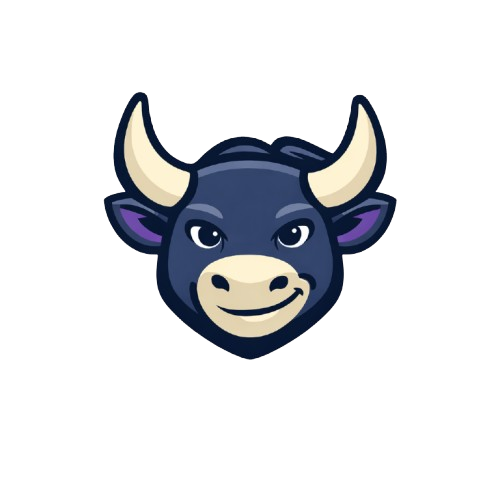
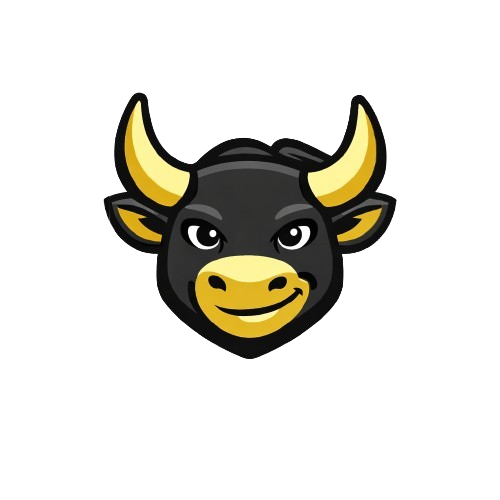
Phase 7: gold colour scheme, updated bull mascot, card fixes

Changed region(s): [[0.21, 0.18, 0.81, 0.72]]

diff --git a/portfolio-rank-next/src/app/page.tsx b/portfolio-rank-next/src/app/page.tsx
@@ -1,7 +1,7 @@
 import Link from "next/link";
 import * as SimpleIcons from "simple-icons";
 
-const ACCENT_PURPLE = "#7c3aed";
+const ACCENT_GOLD = "#f59e0b";
 
 const CAROUSEL_SLUGS = [
   "apple",
@@ -38,7 +38,7 @@ export default function Home() {
   return (
     <div
       className="min-h-screen text-white"
-      style={{ backgroundColor: "#0a0f1e" }}
+      style={{ backgroundColor: "#0a0a0a" }}
     >
       <style
         dangerouslySetInnerHTML={{
@@ -55,13 +55,13 @@ export default function Home() {
       />
 
       {/* Navbar */}
-      <nav className="sticky top-0 z-50 backdrop-blur-md bg-[#0a0f1e]/70 border-b border-white/10">
+      <nav className="sticky top-0 z-50 backdrop-blur-md bg-[#0a0a0a]/70 border-b border-white/10">
         <div className="mx-auto flex max-w-6xl items-center justify-between px-4 py-4">
           <Link href="/" className="flex items-center gap-2">
             <img src="/brand/bull-head.png" alt="PortfolioRank" className="h-16 w-auto" />
             <span className="font-bold text-lg">
               <span className="text-white">Portfolio</span>
-              <span className="text-purple-400">Rank</span>
+              <span className="text-yellow-400">Rank</span>
             </span>
           </Link>
           <a
@@ -72,9 +72,9 @@ export default function Home() {
               fontSize: "18px",
               fontWeight: 700,
               borderRadius: "9999px",
-              color: "white",
-              background: "#7c3aed",
-              boxShadow: "0 0 30px rgba(124,58,237,0.6)",
+              color: "#0a0a0a",
+              background: "#f59e0b",
+              boxShadow: "0 0 30px rgba(245,158,11,0.5)",
             }}
           >
             Analyse My Portfolio →
@@ -89,7 +89,7 @@ export default function Home() {
             <h1 className="text-4xl md:text-6xl font-black text-center leading-tight tracking-tight">
               <span className="text-white">How Strong Is Your</span>
               <br />
-              <span className="text-purple-400 whitespace-nowrap">
+              <span className="text-yellow-400 whitespace-nowrap">
                 Investment Portfolio?
               </span>
             </h1>
@@ -100,27 +100,27 @@ export default function Home() {
 
             {/* 3 step cards */}
             <div className="mt-12 grid gap-8 sm:grid-cols-3">
-              <div className="relative overflow-hidden rounded-2xl border border-purple-500/20 bg-white/[0.03] p-6 text-left">
-                <div className="absolute -top-px left-1/2 h-px w-3/4 -translate-x-1/2 bg-gradient-to-r from-transparent via-purple-500 to-transparent" />
-                <div className="pointer-events-none absolute left-0 top-0 h-full w-full bg-gradient-to-b from-purple-500/5 to-transparent" />
+              <div className="relative overflow-hidden rounded-2xl border border-yellow-500/20 bg-white/[0.03] p-6 text-left">
+                <div className="absolute -top-px left-1/2 h-px w-3/4 -translate-x-1/2 bg-gradient-to-r from-transparent via-yellow-500 to-transparent" />
+                <div className="pointer-events-none absolute left-0 top-0 h-full w-full bg-gradient-to-b from-yellow-500/5 to-transparent" />
                 <div className="text-2xl">📋</div>
                 <h3 className="mt-2 font-semibold text-white">Enter Portfolio</h3>
                 <p className="mt-1 text-sm text-slate-400">
                   Add your holdings and weights in seconds
                 </p>
               </div>
-              <div className="relative overflow-hidden rounded-2xl border border-purple-500/20 bg-white/[0.03] p-6 text-left">
-                <div className="absolute -top-px left-1/2 h-px w-3/4 -translate-x-1/2 bg-gradient-to-r from-transparent via-purple-500 to-transparent" />
-                <div className="pointer-events-none absolute left-0 top-0 h-full w-full bg-gradient-to-b from-purple-500/5 to-transparent" />
+              <div className="relative overflow-hidden rounded-2xl border border-yellow-500/20 bg-white/[0.03] p-6 text-left">
+                <div className="absolute -top-px left-1/2 h-px w-3/4 -translate-x-1/2 bg-gradient-to-r from-transparent via-yellow-500 to-transparent" />
+                <div className="pointer-events-none absolute left-0 top-0 h-full w-full bg-gradient-to-b from-yellow-500/5 to-transparent" />
                 <div className="text-2xl">⚡</div>
                 <h3 className="mt-2 font-semibold text-white">AI Analysis</h3>
                 <p className="mt-1 text-sm text-slate-400">
                   Our engine scores diversification, risk & more
                 </p>
               </div>
-              <div className="relative overflow-hidden rounded-2xl border border-purple-500/20 bg-white/[0.03] p-6 text-left">
-                <div className="absolute -top-px left-1/2 h-px w-3/4 -translate-x-1/2 bg-gradient-to-r from-transparent via-purple-500 to-transparent" />
-                <div className="pointer-events-none absolute left-0 top-0 h-full w-full bg-gradient-to-b from-purple-500/5 to-transparent" />
+              <div className="relative overflow-hidden rounded-2xl border border-yellow-500/20 bg-white/[0.03] p-6 text-left">
+                <div className="absolute -top-px left-1/2 h-px w-3/4 -translate-x-1/2 bg-gradient-to-r from-transparent via-yellow-500 to-transparent" />
+                <div className="pointer-events-none absolute left-0 top-0 h-full w-full bg-gradient-to-b from-yellow-500/5 to-transparent" />
                 <div className="text-2xl">📊</div>
                 <h3 className="mt-2 font-semibold text-white">Your Score</h3>
                 <p className="mt-1 text-sm text-slate-400">
@@ -138,9 +138,9 @@ export default function Home() {
                   fontSize: "18px",
                   fontWeight: 700,
                   borderRadius: "9999px",
-                  color: "white",
-                  background: "#7c3aed",
-                  boxShadow: "0 0 30px rgba(124,58,237,0.6)",
+                  color: "#0a0a0a",
+                  background: "#f59e0b",
+                  boxShadow: "0 0 30px rgba(245,158,11,0.5)",
                 }}
               >
                 Analyse My Portfolio →
@@ -212,9 +212,9 @@ export default function Home() {
 
         {/* Section 3 — Stat cards */}
         <section className="pt-8 pb-16 bg-transparent">
-          <div className="relative overflow-hidden rounded-2xl border border-purple-500/20 bg-white/[0.03] p-6">
-            <div className="absolute -top-px left-1/2 h-px w-3/4 -translate-x-1/2 bg-gradient-to-r from-transparent via-purple-500 to-transparent" />
-            <div className="pointer-events-none absolute left-0 top-0 h-full w-full bg-gradient-to-b from-purple-500/5 to-transparent" />
+          <div className="relative overflow-hidden rounded-2xl border border-yellow-500/20 bg-white/[0.03] p-6">
+            <div className="absolute -top-px left-1/2 h-px w-3/4 -translate-x-1/2 bg-gradient-to-r from-transparent via-yellow-500 to-transparent" />
+            <div className="pointer-events-none absolute left-0 top-0 h-full w-full bg-gradient-to-b from-yellow-500/5 to-transparent" />
             <h2 className="mb-8 text-center text-2xl font-semibold text-white">
               Most Portfolios Have Hidden Problems
             </h2>
@@ -222,7 +222,7 @@ export default function Home() {
               <div className="relative rounded-2xl border border-white/15 bg-white/[0.04] p-8 text-center">
                 <div
                   className="text-5xl font-black"
-                  style={{ color: ACCENT_PURPLE }}
+                  style={{ color: ACCENT_GOLD }}
                 >
                   72%
                 </div>
@@ -234,7 +234,7 @@ export default function Home() {
               <div className="relative rounded-2xl border border-white/15 bg-white/[0.04] p-8 text-center">
                 <div
                   className="text-5xl font-black"
-                  style={{ color: ACCENT_PURPLE }}
+                  style={{ color: ACCENT_GOLD }}
                 >
                   &lt;5
                 </div>
@@ -246,7 +246,7 @@ export default function Home() {
               <div className="relative rounded-2xl border border-white/15 bg-white/[0.04] p-8 text-center">
                 <div
                   className="text-5xl font-black"
-                  style={{ color: ACCENT_PURPLE }}
+                  style={{ color: ACCENT_GOLD }}
                 >
                   2.3×
                 </div>
@@ -260,22 +260,21 @@ export default function Home() {
         </section>
 
         {/* Section 4 — Average score */}
-        <section className="flex justify-center py-24 bg-white/[0.02]">
-          <div className="relative w-full max-w-lg overflow-hidden rounded-2xl border border-purple-500/20 bg-white/[0.03] p-6 text-center">
-            <div className="absolute -top-px left-1/2 h-px w-3/4 -translate-x-1/2 bg-gradient-to-r from-transparent via-purple-500 to-transparent" />
-            <div className="pointer-events-none absolute left-0 top-0 h-full w-full bg-gradient-to-b from-purple-500/5 to-transparent" />
+        <section className="flex justify-center py-24">
+          <div className="relative w-full max-w-lg overflow-hidden rounded-2xl border border-yellow-500/20 bg-[#111111] p-6 text-center">
+            <div className="absolute -top-px left-1/2 h-px w-3/4 -translate-x-1/2 bg-gradient-to-r from-transparent via-yellow-500 to-transparent" />
             <h2 className="text-xl font-semibold text-white">
               Average PortfolioRank Score
             </h2>
             <div
               className="mt-4 text-5xl font-bold"
-              style={{ color: ACCENT_PURPLE }}
+              style={{ color: ACCENT_GOLD }}
             >
               6.3 / 10
             </div>
             <span
               className="mt-2 inline-block rounded-full px-4 py-1 text-xs font-semibold"
-              style={{ backgroundColor: `${ACCENT_PURPLE}30`, color: ACCENT_PURPLE }}
+              style={{ backgroundColor: `${ACCENT_GOLD}30`, color: ACCENT_GOLD }}
             >
               ● MOST COMMON SCORE
             </span>
@@ -289,14 +288,14 @@ export default function Home() {
                 <path
                   d="M 0 60 Q 50 55 100 40 T 200 60"
                   fill="none"
-                  stroke="rgba(124, 58, 237, 0.5)"
+                  stroke="rgba(245, 158, 11, 0.5)"
                   strokeWidth="2"
                 />
                 <path
                   d="M 0 60 Q 50 55 100 40 T 200 60 L 200 80 L 0 80 Z"
-                  fill="rgba(124, 58, 237, 0.1)"
+                  fill="rgba(245, 158, 11, 0.1)"
                 />
-                <circle cx="95" cy="42" r="4" fill={ACCENT_PURPLE} />
+                <circle cx="95" cy="42" r="4" fill={ACCENT_GOLD} />
               </svg>
             </div>
             <p className="mt-2 text-xs text-slate-400">
@@ -311,9 +310,9 @@ export default function Home() {
                 fontSize: "18px",
                 fontWeight: 700,
                 borderRadius: "9999px",
-                color: "white",
-                background: "#7c3aed",
-                boxShadow: "0 0 30px rgba(124,58,237,0.6)",
+                color: "#0a0a0a",
+                background: "#f59e0b",
+                boxShadow: "0 0 30px rgba(245,158,11,0.5)",
               }}
             >
               What&apos;s your score? →
@@ -323,9 +322,8 @@ export default function Home() {
 
         {/* Section 5 — How scoring works */}
         <section className="py-24 bg-transparent">
-          <div className="relative overflow-hidden rounded-2xl border border-purple-500/20 bg-white/[0.03] p-6">
-            <div className="absolute -top-px left-1/2 h-px w-3/4 -translate-x-1/2 bg-gradient-to-r from-transparent via-purple-500 to-transparent" />
-            <div className="pointer-events-none absolute left-0 top-0 h-full w-full bg-gradient-to-b from-purple-500/5 to-transparent" />
+          <div className="relative overflow-hidden rounded-2xl border border-yellow-500/20 bg-[#111111] p-6">
+            <div className="absolute -top-px left-1/2 h-px w-3/4 -translate-x-1/2 bg-gradient-to-r from-transparent via-yellow-500 to-transparent" />
             <h2 className="mb-10 text-center text-2xl font-semibold text-white">
               How Your Portfolio Score Is Calculated
             </h2>
@@ -364,11 +362,10 @@ export default function Home() {
               ].map((item) => (
                 <div
                   key={item.name}
-                  className="relative flex gap-4 overflow-hidden rounded-2xl border border-purple-500/20 bg-white/[0.03] p-6"
+                  className="relative flex gap-4 overflow-hidden rounded-2xl border border-yellow-500/20 bg-[#111111] p-6"
                 >
-                  <div className="absolute -top-px left-1/2 h-px w-3/4 -translate-x-1/2 bg-gradient-to-r from-transparent via-purple-500 to-transparent" />
-                  <div className="pointer-events-none absolute left-0 top-0 h-full w-full bg-gradient-to-b from-purple-500/5 to-transparent" />
-                  <span className="flex h-12 w-12 shrink-0 items-center justify-center rounded-full bg-purple-500/20 text-2xl">
+                  <div className="absolute -top-px left-1/2 h-px w-3/4 -translate-x-1/2 bg-gradient-to-r from-transparent via-yellow-500 to-transparent" />
+                  <span className="flex h-12 w-12 shrink-0 items-center justify-center rounded-full bg-white/10 text-2xl">
                     {item.icon}
                   </span>
                   <div>
@@ -382,34 +379,32 @@ export default function Home() {
         </section>
 
         {/* Section 6 — Free score */}
-        <section className="py-24 text-center bg-white/[0.02]">
+        <section className="py-24 text-center">
           <h2 className="text-2xl font-semibold text-white">
             Start With a{" "}
-            <span style={{ color: ACCENT_PURPLE }}>Free</span> Portfolio Score
+            <span style={{ color: ACCENT_GOLD }}>Free</span> Portfolio Score
           </h2>
           <div className="mx-auto mt-8 grid max-w-4xl gap-8 sm:grid-cols-2">
-              <div className="relative overflow-hidden rounded-2xl bg-white/5 border border-white/10 p-6 text-left">
-                <div className="absolute -top-px left-1/2 h-px w-3/4 -translate-x-1/2 bg-gradient-to-r from-transparent via-purple-500 to-transparent" />
-                <div className="pointer-events-none absolute left-0 top-0 h-full w-full bg-gradient-to-b from-purple-500/5 to-transparent" />
-                <h3 className="text-lg font-semibold text-emerald-400">Free</h3>
-                <ul className="mt-4 space-y-2 text-sm">
-                  <li className="flex items-center gap-2 text-emerald-400">
-                    <span>✓</span> Portfolio score 0–10
+              <div className="relative overflow-hidden rounded-2xl bg-[#111111] border border-yellow-500/20 p-6 text-left">
+                <div className="absolute -top-px left-1/2 h-px w-3/4 -translate-x-1/2 bg-gradient-to-r from-transparent via-yellow-500 to-transparent" />
+                <h3 className="text-lg font-semibold text-white">Free</h3>
+                <ul className="mt-4 space-y-2 text-sm text-slate-400">
+                  <li className="flex items-center gap-2">
+                    <span className="text-green-400">✓</span> Portfolio score 0–10
                   </li>
-                  <li className="flex items-center gap-2 text-emerald-400">
-                    <span>✓</span> AI summary
+                  <li className="flex items-center gap-2">
+                    <span className="text-green-400">✓</span> AI summary
                   </li>
-                  <li className="flex items-center gap-2 text-emerald-400">
-                    <span>✓</span> Optimization potential
+                  <li className="flex items-center gap-2">
+                    <span className="text-green-400">✓</span> Optimization potential
                   </li>
                 </ul>
               </div>
-              <div className="relative overflow-hidden rounded-2xl bg-white/10 border border-purple-500/40 shadow-lg shadow-purple-500/10 p-6 text-left">
-                <div className="absolute -top-px left-1/2 h-px w-3/4 -translate-x-1/2 bg-gradient-to-r from-transparent via-purple-500 to-transparent" />
-                <div className="pointer-events-none absolute left-0 top-0 h-full w-full bg-gradient-to-b from-purple-500/5 to-transparent" />
+              <div className="relative overflow-hidden rounded-2xl bg-[#111111] border border-yellow-500/20 p-6 text-left">
+                <div className="absolute -top-px left-1/2 h-px w-3/4 -translate-x-1/2 bg-gradient-to-r from-transparent via-yellow-500 to-transparent" />
                 <div className="flex items-center gap-2">
-                  <h3 className="text-lg font-semibold text-purple-400">Premium</h3>
-                  <span className="rounded-full bg-purple-600 px-2 py-0.5 text-xs font-semibold text-white">£3.99</span>
+                  <h3 className="text-lg font-semibold text-yellow-400">Premium</h3>
+                  <span className="rounded-full bg-yellow-600 px-2 py-0.5 text-xs font-semibold text-white">£3.99</span>
                 </div>
                 <ul className="mt-4 space-y-2 text-sm text-slate-400">
                   <li className="flex items-center gap-2">
@@ -436,9 +431,9 @@ export default function Home() {
               fontSize: "18px",
               fontWeight: 700,
               borderRadius: "9999px",
-              color: "white",
-              background: "#7c3aed",
-              boxShadow: "0 0 30px rgba(124,58,237,0.6)",
+              color: "#0a0a0a",
+              background: "#f59e0b",
+              boxShadow: "0 0 30px rgba(245,158,11,0.5)",
             }}
           >
             Get Your Free Score →
@@ -447,9 +442,8 @@ export default function Home() {
 
         {/* Footer CTA */}
         <section className="py-24 mb-12">
-          <div className="relative overflow-hidden rounded-2xl border border-purple-500/20 bg-white/[0.03] p-6 text-center">
-            <div className="absolute -top-px left-1/2 h-px w-3/4 -translate-x-1/2 bg-gradient-to-r from-transparent via-purple-500 to-transparent" />
-            <div className="pointer-events-none absolute left-0 top-0 h-full w-full bg-gradient-to-b from-purple-500/5 to-transparent" />
+          <div className="relative overflow-hidden rounded-2xl border border-yellow-500/20 bg-[#111111] p-6 text-center">
+            <div className="absolute -top-px left-1/2 h-px w-3/4 -translate-x-1/2 bg-gradient-to-r from-transparent via-yellow-500 to-transparent" />
             <h2 className="text-2xl font-semibold text-white sm:text-3xl">
               Your Portfolio Might Be Riskier Than You Think
             </h2>
@@ -465,9 +459,9 @@ export default function Home() {
                 fontSize: "18px",
                 fontWeight: 700,
                 borderRadius: "9999px",
-                color: "white",
-                background: "#7c3aed",
-                boxShadow: "0 0 30px rgba(124,58,237,0.6)",
+                color: "#0a0a0a",
+                background: "#f59e0b",
+                boxShadow: "0 0 30px rgba(245,158,11,0.5)",
               }}
             >
               Analyse My Portfolio →

diff --git a/portfolio-rank-next/src/app/result/layout.tsx b/portfolio-rank-next/src/app/result/layout.tsx
@@ -8,7 +8,7 @@ export default function ResultLayout({
   return (
     <Suspense
       fallback={
-        <div className="min-h-screen bg-zinc-950 flex items-center justify-center text-zinc-400">
+        <div className="min-h-screen flex items-center justify-center text-zinc-400" style={{ backgroundColor: "#0a0a0a" }}>
           Loading…
         </div>
       }

diff --git a/portfolio-rank-next/src/app/result/page.tsx b/portfolio-rank-next/src/app/result/page.tsx
@@ -244,7 +244,7 @@ function ResultPage() {
       : 0;
 
   return (
-    <div className="min-h-screen bg-zinc-950 text-zinc-50 pb-24">
+    <div className="min-h-screen text-zinc-50 pb-24" style={{ backgroundColor: "#0a0a0a" }}>
       <div className="max-w-xl mx-auto px-4 pt-6 pb-4">
         <Link
           href="/analyze"

diff --git a/portfolio-rank-next/src/app/analyze/page.tsx b/portfolio-rank-next/src/app/analyze/page.tsx
@@ -68,7 +68,7 @@ function AnalyzePage() {
   }
 
   return (
-    <div className="min-h-screen bg-zinc-950 text-zinc-50 px-4 py-8">
+    <div className="min-h-screen text-zinc-50 px-4 py-8" style={{ backgroundColor: "#0a0a0a" }}>
       <div className="max-w-lg mx-auto">
         <Link
           href="/"
